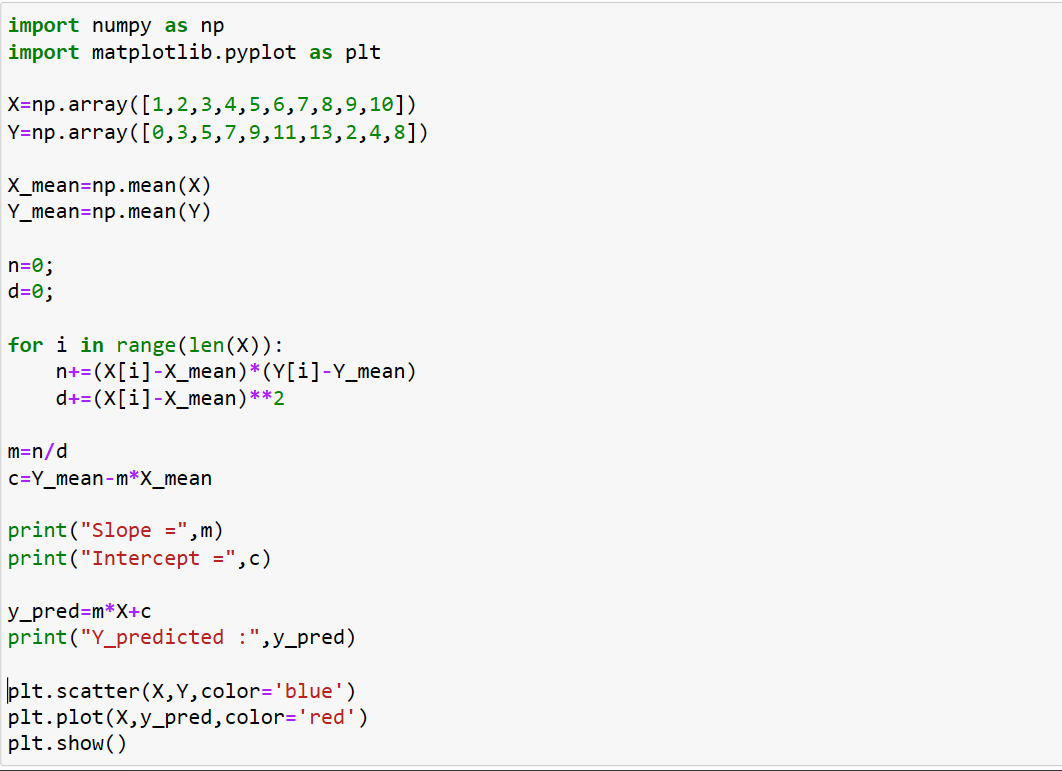
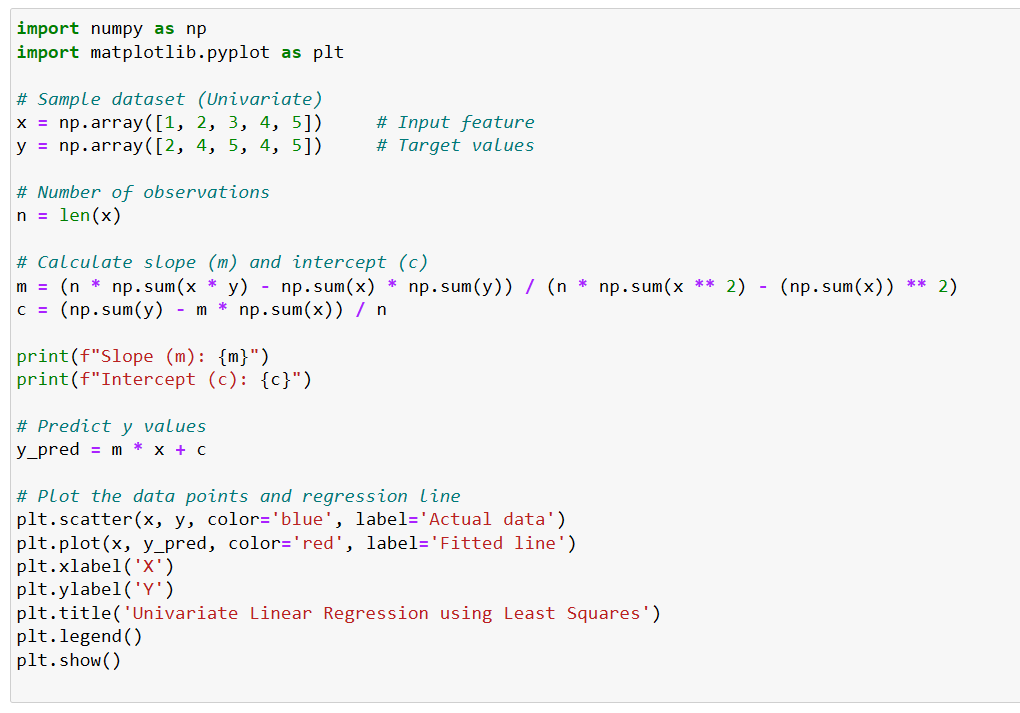
success

diff --git a/README.md b/README.md
@@ -21,39 +21,7 @@ To implement univariate Linear Regression to fit a straight line using least squ
 /*
 Program to implement univariate Linear Regression to fit a straight line using least squares.
 
-import numpy as np
-import matplotlib.pyplot as plt
 
-X=np.array([1,2,3,4,5,6,7,8,9,10])
-Y=np.array([0,3,5,7,9,11,13,2,4,8])
-
-X_mean=np.mean(X)
-Y_mean=np.mean(Y)
-
-n=0;
-d=0;
-
-for i in range(len(X)):
-    n+=(X[i]-X_mean)*(Y[i]-Y_mean)
-    d+=(X[i]-X_mean)**2
-    
-m=n/d
-c=Y_mean-m*X_mean
-
-print("Slope =",m)
-print("Intercept =",c)
-
-y_pred=m*X+c
-print("Y_predicted :",y_pred)
-
-plt.scatter(X,Y,color='blue')
-plt.plot(X,y_pred,color='red')
-plt.show()
-
-Developed by: Swathi P N
-RegisterNumber:  212225230279
-*/
-```
 
 ## Output:
 
